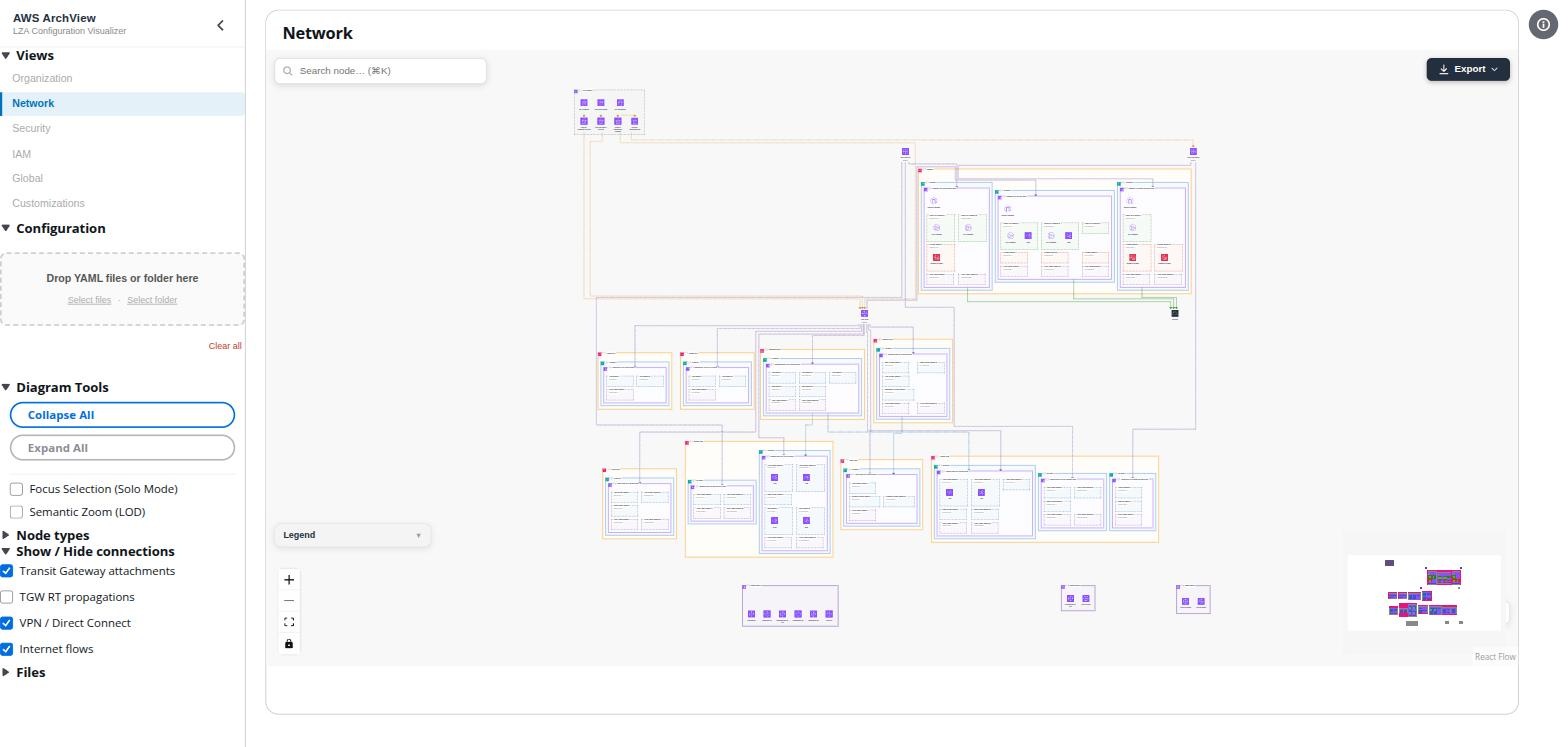
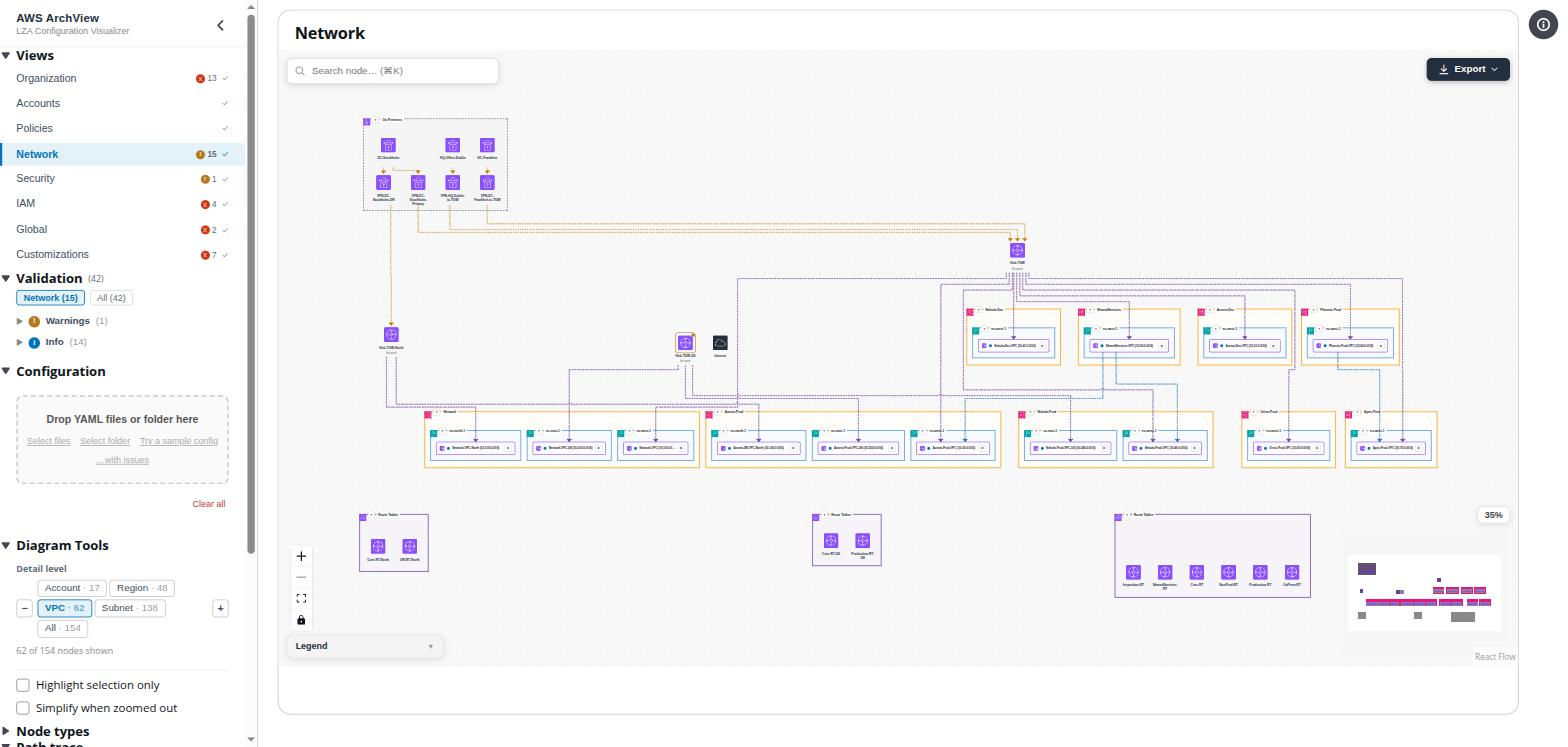
docs: refresh README screenshots, add Accounts and Path trace
Old screenshots predated the sidebar redesign, the validation panel,
and account profiles. Adds Accounts (account profile detail) and a
Path trace screenshot alongside the refreshed set.

Claude-Session: https://claude.ai/code/session_01Yb3frtjrKoqyuKVs6CgkrH

diff --git a/README.md b/README.md
@@ -8,13 +8,17 @@ Because AWS ArchView is a pure client-side web application, **no server-side pro
 
 ## Screenshots
 
-| Organization | Policies |
+| Organization | Accounts |
 |---|---|
-| ![Organization view](docs/screenshots/organization.png) | ![Policies view](docs/screenshots/policies.png) |
+| ![Organization view](docs/screenshots/organization.png) | ![Accounts view](docs/screenshots/accounts.png) |
 
-| Network | Security |
+| Policies | Network |
 |---|---|
-| ![Network view](docs/screenshots/network.png) | ![Security view](docs/screenshots/security.png) |
+| ![Policies view](docs/screenshots/policies.png) | ![Network view](docs/screenshots/network.png) |
+
+| Path trace | Security |
+|---|---|
+| ![Path trace](docs/screenshots/path-trace.png) | ![Security view](docs/screenshots/security.png) |
 
 | IAM | Global |
 |---|---|
